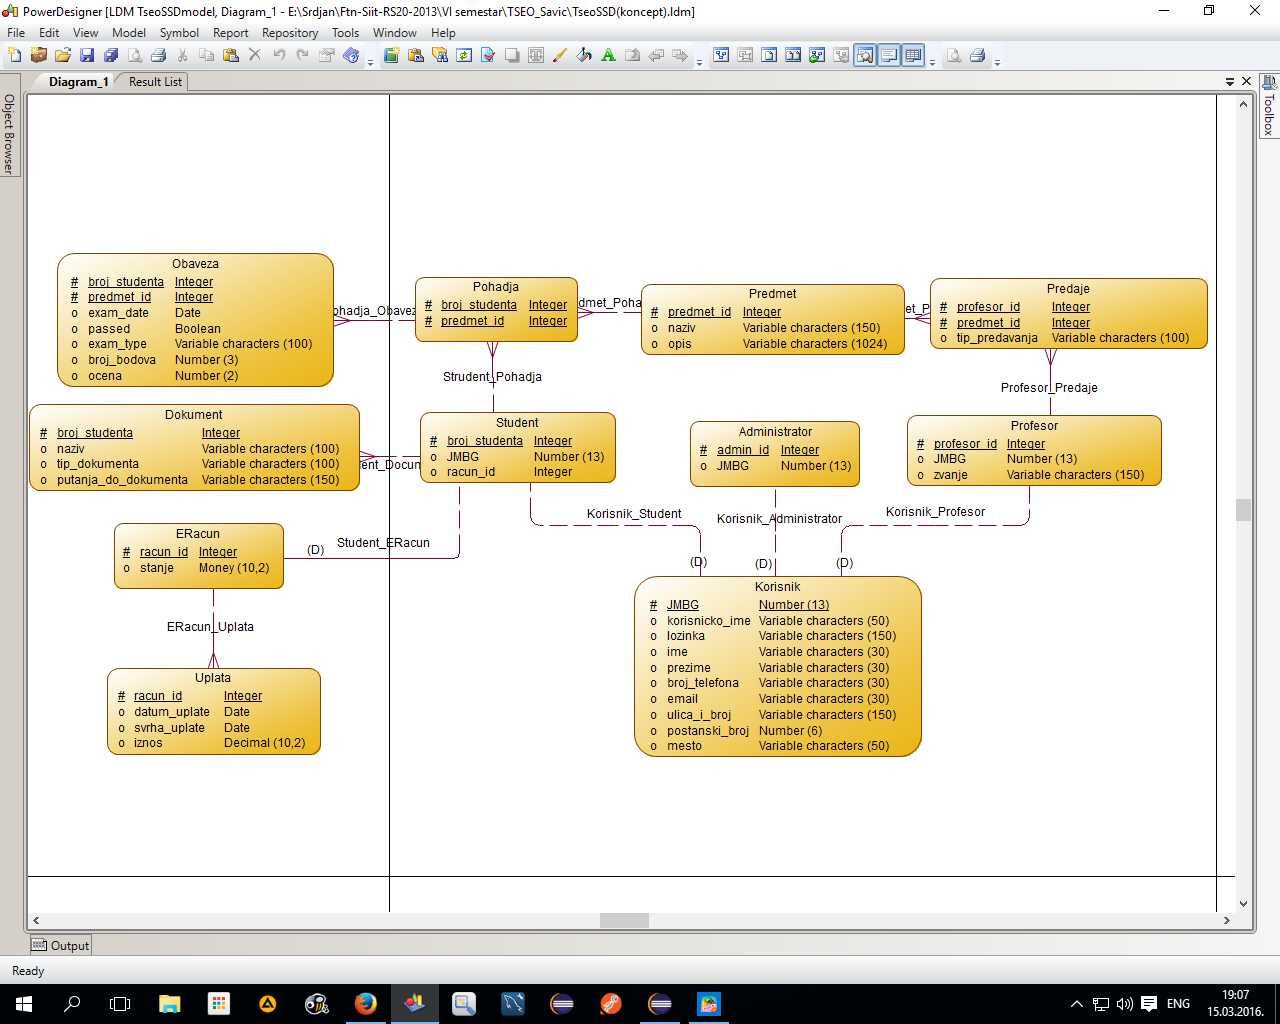
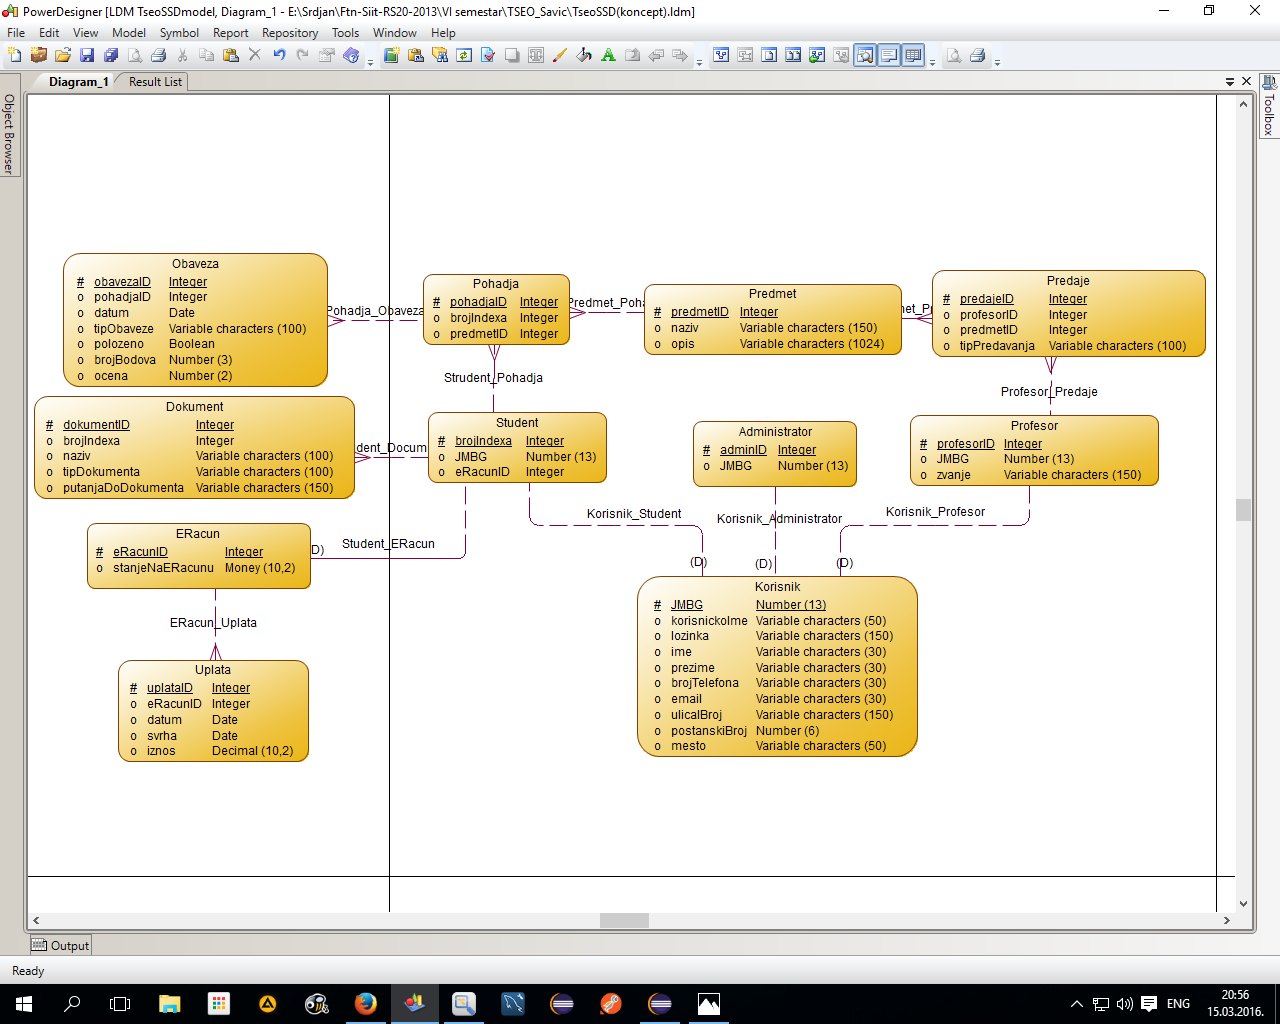
Klase i spisak atributa Dijagram(.png) usaglasen sa klasama

diff --git a/src/main/java/rs/ac/uns/ftn/tseo/ssd/TseoSSDApplication.java b/src/main/java/rs/ac/uns/ftn/tseo/ssd/TseoSSDApplication.java
@@ -4,11 +4,12 @@ import org.springframework.boot.SpringApplication;
 import org.springframework.boot.autoconfigure.SpringBootApplication;
 
 @SpringBootApplication  // same as @Configuration @EnableAutoConfiguration @ComponentScan
-public class TseoSSDAplication {
+public class TseoSSDApplication {
 
 	public static void main( String[] args )
     {
-    	SpringApplication.run(TseoSSDAplication.class, args);
+		System.out.println(" † ");
+    	SpringApplication.run(TseoSSDApplication.class, args);
     }
 	
 }

diff --git a/src/main/java/rs/ac/uns/ftn/tseo/ssd/model/Student.java b/src/main/java/rs/ac/uns/ftn/tseo/ssd/model/Student.java
@@ -1,0 +1,19 @@
+package rs.ac.uns.ftn.tseo.ssd.model;
+
+import java.util.Set;
+import java.util.HashSet;
+
+public class Student {
+
+	private String brojIndexa;
+	// -> Korisnik.JMBG
+	private Integer JMBG;
+	// -> ERacun.eRacunID
+	private Integer eRacunID;
+	// -> Dokument.dokumentID
+	private Set<Dokument> dokumenta = new HashSet<Dokument>();
+	// -> Pohadja.brojIndexa
+	private Set<Predmet> predmeti = new HashSet<Predmet>();
+	
+	
+}

diff --git a/src/main/java/rs/ac/uns/ftn/tseo/ssd/model/Korisnik.java b/src/main/java/rs/ac/uns/ftn/tseo/ssd/model/Korisnik.java
@@ -1,0 +1,19 @@
+package rs.ac.uns.ftn.tseo.ssd.model;
+
+public class Korisnik {
+
+	// -> {Student-Administrator-Profesor}.JMBG
+	private Integer JMBG;
+	private String korisnickoIme;
+	private String lozinka;
+	
+	private String ime;
+	private String prezime;
+	private String brojTelefona;
+	private String email;
+	
+	private String ulicaIBroj;
+	private String postanskiBroj;
+	private String mesto;
+	
+}

diff --git a/src/main/java/rs/ac/uns/ftn/tseo/ssd/model/Predmet.java b/src/main/java/rs/ac/uns/ftn/tseo/ssd/model/Predmet.java
@@ -1,0 +1,16 @@
+package rs.ac.uns.ftn.tseo.ssd.model;
+
+import java.util.HashSet;
+import java.util.Set;
+
+public class Predmet {
+
+	private Integer predmetID;
+	private String naziv;
+	private String opis;
+	// -> Predaje.predmetID
+	private Set<Profesor> profesori = new HashSet<Profesor>();
+	// -> Pohadja.predmetID
+	private Set<Student> studenti = new HashSet<Student>();
+	
+}

diff --git a/src/main/java/rs/ac/uns/ftn/tseo/ssd/model/Pohadja.java b/src/main/java/rs/ac/uns/ftn/tseo/ssd/model/Pohadja.java
@@ -1,0 +1,16 @@
+package rs.ac.uns.ftn.tseo.ssd.model;
+
+import java.util.HashSet;
+import java.util.Set;
+
+public class Pohadja {
+
+	private Integer pohadjaID;
+	// -> Student.predmeti
+	private Integer brojIndexa;
+	// -> Predmet.studenti
+	private Integer predmetID;
+	// -> Obaveza.pohadjaID
+	private Set<Obaveza> obaveze = new HashSet<Obaveza>();
+	
+}

diff --git a/src/main/java/rs/ac/uns/ftn/tseo/ssd/model/Obaveza.java b/src/main/java/rs/ac/uns/ftn/tseo/ssd/model/Obaveza.java
@@ -1,0 +1,16 @@
+package rs.ac.uns.ftn.tseo.ssd.model;
+
+import java.util.Date;
+
+public class Obaveza {
+
+	private Integer obavezaID;
+	// -> Pohadja.obaveze
+	private Integer pohadjaID;
+	private Date datum;
+	private String tipObaveze;
+	private Boolean polozeno;
+	private Integer brojBodova;
+	private Integer ocena;
+	
+}

diff --git a/src/main/java/rs/ac/uns/ftn/tseo/ssd/model/Profesor.java b/src/main/java/rs/ac/uns/ftn/tseo/ssd/model/Profesor.java
@@ -1,0 +1,15 @@
+package rs.ac.uns.ftn.tseo.ssd.model;
+
+import java.util.HashSet;
+import java.util.Set;
+
+public class Profesor {
+
+	private Integer profesorID;
+	// -> Korisnik.JMBG
+	private Integer JMBG;
+	private String zvanje;
+	// -> Predaje.profesorID
+	private Set<Predmet> predmeti = new HashSet<Predmet>();
+	
+}

diff --git a/src/main/java/rs/ac/uns/ftn/tseo/ssd/model/Predaje.java b/src/main/java/rs/ac/uns/ftn/tseo/ssd/model/Predaje.java
@@ -1,0 +1,12 @@
+package rs.ac.uns.ftn.tseo.ssd.model;
+
+public class Predaje {
+
+	private Integer predajeID;
+	// -> Predmet.profesori
+	private Integer predmetID;
+	// -> Profesor.predmeti
+	private Integer profesorID;
+	private String tipPredavanja; // Predavanja, Vezbe, ...
+	
+}

diff --git a/src/main/java/rs/ac/uns/ftn/tseo/ssd/model/ERacun.java b/src/main/java/rs/ac/uns/ftn/tseo/ssd/model/ERacun.java
@@ -1,0 +1,13 @@
+package rs.ac.uns.ftn.tseo.ssd.model;
+
+import java.util.HashSet;
+import java.util.Set;
+
+public class ERacun {
+
+	private Integer eRacunID;
+	private Double stanjeNaERacunu;
+	// -> Uplata.eRacunID
+	private Set<Uplata> uplate = new HashSet<Uplata>();
+	
+}

diff --git a/src/main/java/rs/ac/uns/ftn/tseo/ssd/model/Uplata.java b/src/main/java/rs/ac/uns/ftn/tseo/ssd/model/Uplata.java
@@ -1,0 +1,14 @@
+package rs.ac.uns.ftn.tseo.ssd.model;
+
+import java.util.Date;
+
+public class Uplata {
+
+	private Integer uplataID;
+	// -> ERacun.uplate
+	private Integer eRacunID;
+	private Date datum;
+	private String svrha;
+	private Double iznos;
+	
+}

diff --git a/src/main/java/rs/ac/uns/ftn/tseo/ssd/model/Dokument.java b/src/main/java/rs/ac/uns/ftn/tseo/ssd/model/Dokument.java
@@ -1,0 +1,12 @@
+package rs.ac.uns.ftn.tseo.ssd.model;
+
+public class Dokument {
+	
+	private Integer dokumentID;
+	// -> Student.dokumenta
+	private Integer brojIndexa;
+	private String naziv;
+	private String tip;
+	private String putanjaDoDokumenta;
+
+}

diff --git a/src/main/java/rs/ac/uns/ftn/tseo/ssd/model/Administrator.java b/src/main/java/rs/ac/uns/ftn/tseo/ssd/model/Administrator.java
@@ -1,0 +1,9 @@
+package rs.ac.uns.ftn.tseo.ssd.model;
+
+public class Administrator {
+
+	private Integer adminID;
+	// -> Korisnik.JMBG
+	private Integer JMBG;
+	
+}
